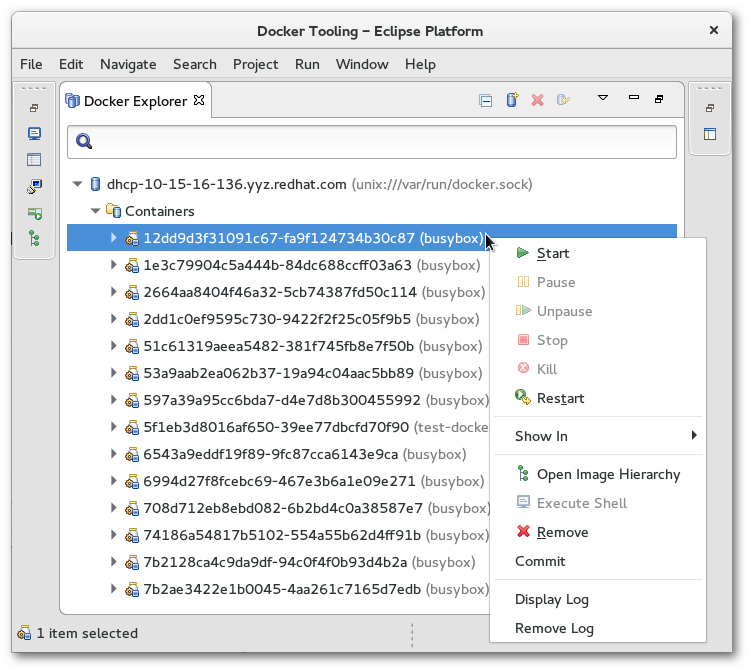
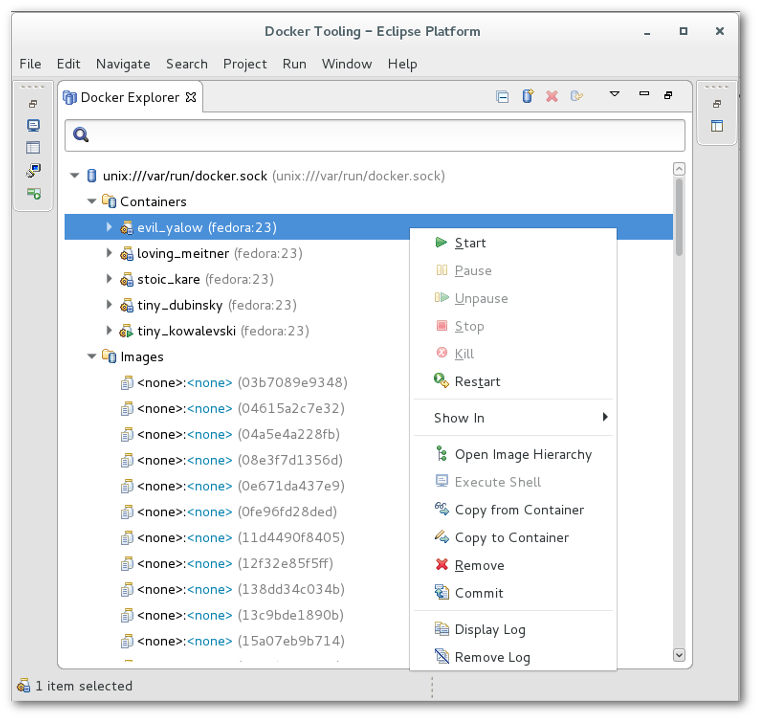
Bug 508552 - Update Docker documentation for Neon.2

Changed region(s): [[0.0, 0.0312, 0.98, 1.0], [0.8881, 0.0312, 0.9188, 0.0625]]

diff --git a/containers/org.eclipse.linuxtools.docker.docs/Linux_Tools_Project/Docker_Tooling/User_Guide/Docker-Tooling-Perspective.html b/containers/org.eclipse.linuxtools.docker.docs/Linux_Tools_Project/Docker_Tooling/User_Guide/Docker-Tooling-Perspective.html
@@ -28,7 +28,7 @@
 				<td style="width: 60%" align="center"></td>
 				<td style="width: 20%" align="right" valign="top">Updating This Document</td>
 			</tr>
-		</table><hr/>
+		</table><hr class="navigation-separator"/>
 		<h1 id="Docker_Tooling_Perspective">Docker Tooling Perspective</h1>
 		<p>A new perspective known as the Docker Tooling Perspective is added.</p>
 		<p>
@@ -37,17 +37,17 @@
 		<p>This perspective brings up three new views added:</p>
 		<ul>
 			<li>
-				<a href="Docker-Tooling-Perspective.html#Docker_Explorer_View">Docker Explorer View</a> - view for creating/managing connections to Docker daemons
+				<a href="#Docker_Explorer_View">Docker Explorer View</a> - view for creating/managing connections to Docker daemons
 			</li>
 			<li>
-				<a href="Docker-Tooling-Perspective.html#Docker_Images_View">Docker Images View</a> - view for managing Docker Images
+				<a href="#Docker_Images_View">Docker Images View</a> - view for managing Docker Images
 			</li>
 			<li>
-				<a href="Docker-Tooling-Perspective.html#Docker_Containers_View">Docker Containers View</a> - view for managing Docker Containers
+				<a href="#Docker_Containers_View">Docker Containers View</a> - view for managing Docker Containers
 			</li>
 		</ul>
 		<p>In addition, the Docker Tooling Perspective adds the 
-			<a href="Docker-Tooling-Perspective.html#Docker_Image_Hierarchy_View">Docker Image Hierarchy View</a>, Console View, the Terminal View, and the Properties View.
+			<a href="#Docker_Image_Hierarchy_View">Docker Image Hierarchy View</a>, Console View, the Terminal View, and the Properties View.
 		</p>
 		<p>The Console View is used to display logs of stdout/stderr output from Containers and in some instances, allow input to stdin.
 			The Properties View allows clicking on various elements such as Connections, Images, and Containers and getting detailed
@@ -143,15 +143,21 @@
 			<li>Restart - restart Container</li>
 			<li>Show in - show in Properties View</li>
 			<li>
-				<a href="Docker-Tooling-Perspective.html#Docker_Image_Hierarchy_View">Open Image Hierarchy</a> - show parent Image plus its parents in Image Hierarchy View
+				<a href="#Docker_Image_Hierarchy_View">Open Image Hierarchy</a> - show parent Image plus its parents in Image Hierarchy View
 			</li>
 			<li>Execute Shell - run a shell in the Terminal View (running Container only)</li>
-			<li>Remove - delete stopped Containers</li>
 			<li>
-				<a href="Docker-Tooling-Perspective.html#Commit_Container">Commit</a> - commit the Container to an Image
+				<a href="#Copy_from_Container">Copy from Container</a> - copy files from Container to Host
 			</li>
 			<li>
-				<a href="Docker-Tooling-Perspective.html#Display_Log">Display Log</a> - display the log for the Container
+				<a href="#Copy_to_Container">Copy to Container</a> - copy files from Host to Container
+			</li>
+			<li>Remove - delete stopped Containers</li>
+			<li>
+				<a href="#Commit_Container">Commit</a> - commit the Container to an Image
+			</li>
+			<li>
+				<a href="#Display_Log">Display Log</a> - display the log for the Container
 			</li>
 			<li>Remove Log - removes the log for the Container from Eclipse Console View or Terminal View (tty flag on)</li>
 		</ul>
@@ -161,21 +167,21 @@
 		<p>For Images, one can:</p>
 		<ul>
 			<li>
-				<a href="Docker-Tooling-Perspective.html#Run_Image">Run</a> - build a Container and run it
+				<a href="#Run_Image">Run</a> - build a Container and run it
 			</li>
 			<li>Show in Properties View</li>
 			<li>
-				<a href="Docker-Tooling-Perspective.html#Docker_Image_Hierarchy_View">Open Image Hierarchy</a> - show parent Image plus its parents in Image Hierarchy View
+				<a href="#Docker_Image_Hierarchy_View">Open Image Hierarchy</a> - show parent Image plus its parents in Image Hierarchy View
 			</li>
 			<li>Remove - delete selected Images</li>
 			<li>
-				<a href="Docker-Tooling-Perspective.html#Push_Image">Push</a> - push an Image to a registry
+				<a href="#Push_Image">Push</a> - push an Image to a registry
 			</li>
 			<li>
-				<a href="Docker-Tooling-Perspective.html#Add_Tag">Add Tag</a> - add a tag to an Image
+				<a href="#Add_Tag">Add Tag</a> - add a tag to an Image
 			</li>
 			<li>
-				<a href="Docker-Tooling-Perspective.html#Remove_Tag">Remove Tag</a> - remove a tag from an Image with multiple tags
+				<a href="#Remove_Tag">Remove Tag</a> - remove a tag from an Image with multiple tags
 			</li>
 		</ul>
 		<h2 id="Docker_Images_View">Docker Images View</h2>
@@ -192,23 +198,23 @@
 		<ul>
 			<li>
 				<img border="0" src="images/LinuxToolsDockerImageViewPull.png"/> - 
-				<a href="Docker-Tooling-Perspective.html#Pull_Image">pull an Image from the Repository</a>
+				<a href="#Pull_Image">pull an Image from the Repository</a>
 			</li>
 			<li>
 				<img border="0" src="images/LinuxToolsDockerImageViewPush.png"/> - 
-				<a href="Docker-Tooling-Perspective.html#Push_Image">push an Image to the Repository</a>
+				<a href="#Push_Image">push an Image to the Repository</a>
 			</li>
 			<li>
 				<img border="0" src="images/LinuxToolsDockerContainerCreate.png"/> - 
-				<a href="Docker-Tooling-Perspective.html#Run_Image">create a Container from an Image</a>
+				<a href="#Run_Image">create a Container from an Image</a>
 			</li>
 			<li>
 				<img border="0" src="images/LinuxToolsDockerImageBuild.png"/> - 
-				<a href="Docker-Tooling-Perspective.html#Build_Image">build an Image from a Dockerfile</a>
+				<a href="#Build_Image">build an Image from a Dockerfile</a>
 			</li>
 			<li>
 				<img border="0" src="images/LinuxToolsDockerTagImage.png"/> - 
-				<a href="Docker-Tooling-Perspective.html#Add_Tag">tag an Image</a>
+				<a href="#Add_Tag">tag an Image</a>
 			</li>
 			<li>
 				<img border="0" src="images/LinuxToolsDockerDeleteImage.png"/> - delete one or more Images (requires confirmation)
@@ -221,17 +227,19 @@
 		<ul>
 			<li>
 				<img border="0" src="images/LinuxToolsDockerContainerCreate.png"/> - 
-				<a href="Docker-Tooling-Perspective.html#Run_Image">Run an Image and create a Container</a>
+				<a href="#Run_Image">Run an Image and create a Container</a>
 			</li>
 			<li>
-				<a href="Docker-Tooling-Perspective.html#Add_Tag">Add Tag</a> - same as the toolbar tag image action
+				<img border="0" src="images/LinuxToolsDockerTagImage.png"/> - 
+				<a href="#Add_Tag">tag an Image</a> (same as the toolbar tag image action)
 			</li>
 			<li>
-				<a href="Docker-Tooling-Perspective.html#Remove_Tag">Remove Tag</a> - remove a tag from an Image with multiple repo tags
+				<img border="0" src="images/LinuxToolsDockerRemoveTagIcon.png"/> - 
+				<a href="#Remove_Tag">remove a tag from an Image with multiple repo tags</a>
 			</li>
 			<li>
 				<img border="0" src="images/LinuxToolsDockerOpenImageHierarchy.png"/> - 
-				<a href="Docker-Tooling-Perspective.html#Docker_Image_Hierarchy_View">Open Image Hierarchy</a>
+				<a href="#Docker_Image_Hierarchy_View">Open Image Hierarchy</a>
 			</li>
 		</ul>
 		<p>The text entry below the Connection name is used to search/filter the contents of the list.
@@ -252,7 +260,7 @@
 				<i>Add a registry account...</i>
 			</b> or going to
 
-			<a href="Docker-Tooling-Perspective.html#Docker_Registry_Accounts_Preference_Page">Windows -&gt; Preferences -&gt; Docker -&gt; Registry Accounts</a>.
+			<a href="#Docker_Registry_Accounts_Preference_Page">Windows -&gt; Preferences -&gt; Docker -&gt; Registry Accounts</a>.
 		</p>
 		<p>The user can either fill in the complete name of the image to download or a search can be performed
 			using the Search button.  This brings up the Search Image Wizard.</p>
@@ -281,7 +289,7 @@
 			then push that tag.</p>
 		<p>The latest version of the Push Image Wizard allows one to specify a registry/account that has been added
 			via 
-			<a href="Docker-Tooling-Perspective.html#Docker_Registry_Accounts_Preference_Page">Window -&gt; Preferences -&gt; Docker -&gt; Registry Accounts</a>.  This is needed when authorization is required
+			<a href="#Docker_Registry_Accounts_Preference_Page">Window -&gt; Preferences -&gt; Docker -&gt; Registry Accounts</a>.  This is needed when authorization is required
 			by the registry for the specified repo.  Using the aforementioned tag method assumes no authorization
 			required.
 		</p>
@@ -377,7 +385,7 @@
 		<p>The directory can be specified using the "Browse" button.  Once a valid existing directory
 			is specified, the "Edit" button will be enabled, allowing creation and modification of the
 			Dockerfile using a 
-			<a href="Docker-Tooling-Perspective.html#Dockerfile_Editor">basic editor dialog</a>.
+			<a href="#Dockerfile_Editor">basic editor dialog</a>.
 		</p>
 		<p>When the Dockerfile is considered complete, hitting the "Finish" button will start the
 			Image build action.  When the build is complete, the Docker Images View will be refreshed
@@ -538,6 +546,9 @@
 				<img border="0" src="images/LinuxToolsDockerContainerKillIcon.png"/> - kill a running Container
 			</li>
 			<li>
+				<img border="0" src="images/LinuxToolsDockerContainerRestartIcon.png"/> - restart a Container
+			</li>
+			<li>
 				<img border="0" src="images/LinuxToolsDockerContainerDeleteIcon.png"/> - delete a stopped Container
 			</li>
 			<li>
@@ -553,17 +564,35 @@
 		</ul>
 		<p>The following context menu actions are supported:</p>
 		<ul>
-			<li>Commit Container - 
-				<a href="Docker-Tooling-Perspective.html#Commit_Container">commit all changes of a selected Container into a new Image</a>
-			</li>
-			<li>Restart - restart a Container (will wait to stop a running Container, then will kill it before starting again)</li>
-			<li>Display Log - 
-				<a href="Docker-Tooling-Perspective.html#Display_Log">display the stdout/stderr logs of a selected Container in the Console View</a>
-			</li>
-			<li>Remove Log - remove the stdout/stderr logs of a selected Container from the Console View</li>
 			<li>
-				<img border="0" src="images/LinuxToolsDockerOpenImageHierarchy.png"/> - 
-				<a href="Docker-Tooling-Perspective.html#Docker_Image_Hierarchy_View">Open Image Hierarchy for Container</a>
+				<img border="0" src="images/LinuxToolsDockerContainerCommitIcon.png"/> Commit Container - 
+				<a href="#Commit_Container">commit all changes of a selected Container into a new Image</a>
+			</li>
+			<li>
+				<img border="0" src="images/LinuxToolsDockerContainerRestartIcon.png"/> Restart - restart a Container (will wait to stop a running Container, then will kill it before starting again)
+			</li>
+			<li>
+				<img border="0" src="images/LinuxToolsDockerContainerDisplayLogIcon.png"/> Display Log - 
+				<a href="#Display_Log">display the stdout/stderr logs of a selected Container in the Console View</a>
+			</li>
+			<li>
+				<img border="0" src="images/LinuxToolsDockerContainerRemoveLogIcon.png"/> Remove Log - remove the stdout/stderr logs of a selected Container from the Console View
+			</li>
+			<li>
+				<img border="0" src="images/LinuxToolsDockerOpenImageHierarchy.png"/> Open Image Hierarchy - 
+				<a href="#Docker_Image_Hierarchy_View">Open Image Hierarchy for Container</a>
+			</li>
+			<li>
+				<img border="0" src="images/LinuxToolsDockerCopyFromContainer.png"/> Copy from Container - 
+				<a href="#Copy_from_Container">copy files from Container to Host</a>
+			</li>
+			<li>
+				<img border="0" src="images/LinuxToolsDockerCopyToContainer.png"/> Copy to Container - 
+				<a href="#Copy_to_Container">copy files from Host to Container</a>
+			</li>
+			<li>
+				<img border="0" src="images/LinuxToolsDockerExecuteShell.png"/> Execute Shell - 
+				<a href="#Execute_Shell">execute a shell in running Container</a>
 			</li>
 		</ul>
 		<h3 id="Filtering_Labels">Filtering Labels</h3>
@@ -632,6 +661,24 @@
 			</li>
 			<li>timestamps - by default they are added</li>
 		</ul>
+		<h2 id="Copy_from_Container">Copy from Container</h2>
+		<p>
+			<img border="0" src="images/LinuxToolsDockerCopyFromContainerDialog.png"/>
+		</p>
+		<p>The Copy from Container dialog allows you to specify files and folders from the Container's
+			file system and copy them to a selected directory on the Host.  If the Container is running,
+			a Container file browser will be available for file and folder selection and multiple files and
+			folders may be specified.  Specifying a folder will copy the folder and its contents.  </p>
+		<p>If the Container is
+			stopped, you must specify the file or folder manually in the given text entry widget.</p>
+		<h2 id="Copy_to_Container">Copy to Container</h2>
+		<p>
+			<img border="0" src="images/LinuxToolsDockerCopyToContainerDialog.png"/>
+		</p>
+		<p>The Copy to Container dialog allows you to specify files and folders from the Host file system to
+			a selected directory in the Container's file system.  If the Container is running, a Container directory
+			browser will be available for selecting the target folder.  Otherwise, a text entry will be made available
+			for specifying the directory manually.</p>
 		<h2 id="Docker_Image_Hierarchy_View">Docker Image Hierarchy View</h2>
 		<p>
 			<img border="0" src="images/LinuxToolsDockerImageHierarchyView.png"/>
@@ -643,14 +690,14 @@
 			selected Container is shown under the Image used to create it.</p>
 		<p>Context menu actions are available for the Docker Images and Docker Containers in the View.  These
 			match those found in the 
-			<a href="Docker-Tooling-Perspective.html#Docker_Explorer_Context_Menu">Docker Explorer View context menu</a>.
+			<a href="#Docker_Explorer_Context_Menu">Docker Explorer View context menu</a>.
 		</p>
 		<h2 id="Properties_View">Properties View</h2>
 		<p>The Properties View will respond to selections in the four Docker Tooling Views: 
-			<a href="Docker-Tooling-Perspective.html#Docker_Explorer_View">Docker Explorer View</a>, 
-			<a href="Docker-Tooling-Perspective.html#Docker_Images_View">Docker Images View</a>, 
-			<a href="Docker-Tooling-Perspective.html#Docker_Containers_View">Docker Containers View</a>, and the 
-			<a href="Docker-Tooling-Perspective.html#Docker_Image_Hierarchy_View">Docker Image Hierarchy View</a>.  The data shown will depend on what is being selected:
+			<a href="#Docker_Explorer_View">Docker Explorer View</a>, 
+			<a href="#Docker_Images_View">Docker Images View</a>, 
+			<a href="#Docker_Containers_View">Docker Containers View</a>, and the 
+			<a href="#Docker_Image_Hierarchy_View">Docker Image Hierarchy View</a>.  The data shown will depend on what is being selected:
 		</p>
 		<ul>
 			<li>Docker Connection</li>
@@ -673,7 +720,7 @@
 		<p>Users can select a docker-compose.yml file and start Docker Compose from the context menu, using the Run &gt; Docker Compose launcher shortcut.</p>
 		<p>The Docker Compose process displays it logs (with support for text coloring based on ANSI escape codes) and provides a stop button to stop the underlying process.
 			The location of the docker-compose command is specified using the 
-			<a href="Docker-Tooling-Perspective.html#Docker_Compose_Preference_Page">docker compose preferences page</a> location using
+			<a href="#Docker_Compose_Preference_Page">docker compose preferences page</a> location using
 			Window-&gt;Preferences-&gt;Docker-&gt;Docker Compose.
 		</p>
 		<p>
@@ -728,9 +775,9 @@
 		<p>The page supports adding, editing, and removing accounts.</p>
 		<p>Once a registry account entry is added, it may be used for pushing and pulling
 			images.  See the 
-			<a href="Docker-Tooling-Perspective.html#Push_Image">push image</a> and 
-			<a href="Docker-Tooling-Perspective.html#Pull_Image">pull image</a> sections for details.
-		</p><hr/>
+			<a href="#Push_Image">push image</a> and 
+			<a href="#Pull_Image">pull image</a> sections for details.
+		</p><hr class="navigation-separator"/>
 		<table class="navigation" style="width: 100%;" border="0" summary="navigation">
 			<tr>
 				<td style="width: 20%" align="left">

diff --git a/containers/org.eclipse.linuxtools.docker.docs/Linux_Tools_Project/Docker_Tooling/User_Guide/User-Guide.html b/containers/org.eclipse.linuxtools.docker.docs/Linux_Tools_Project/Docker_Tooling/User_Guide/User-Guide.html
@@ -24,14 +24,14 @@
 				<td style="width: 60%" align="center"></td>
 				<td style="width: 20%" align="right" valign="top">Docker Tooling Perspective</td>
 			</tr>
-		</table><hr/>
+		</table><hr class="navigation-separator"/>
 		<h1 id="Introduction">Introduction</h1>
 		<p>The Linux Tools Docker Tooling plug-ins allow a user to manage Docker Images and Containers with similar functionality found in
 			the command-line docker command.</p>
 		<p>For details on Docker and the docker command, see the Docker web-site at 
 			<a href="http://www.docker.com">http://www.docker.com</a>
 		</p>
-		<p>This document discusses functionality found in the Docker Tooling 2.1.0 feature.</p><hr/>
+		<p>This document discusses functionality found in the Docker Tooling 2.1.0 feature.</p><hr class="navigation-separator"/>
 		<table class="navigation" style="width: 100%;" border="0" summary="navigation">
 			<tr>
 				<td style="width: 20%" align="left"></td>

diff --git a/containers/org.eclipse.linuxtools.docker.docs/Linux_Tools_Project/Docker_Tooling/User_Guide/Updating-This-Document.html b/containers/org.eclipse.linuxtools.docker.docs/Linux_Tools_Project/Docker_Tooling/User_Guide/Updating-This-Document.html
@@ -24,11 +24,11 @@
 				<td style="width: 60%" align="center"></td>
 				<td style="width: 20%" align="right" valign="top"></td>
 			</tr>
-		</table><hr/>
+		</table><hr class="navigation-separator"/>
 		<h1 id="Updating_This_Document">Updating This Document</h1>
 		<pre>   This document is maintained in a collaborative wiki.  If you wish to update or modify this document please visit
-   http://wiki.eclipse.org/Linux_Tools_Project/Docker_Tooling/User_Guide .
-</pre><hr/>
+   <a href="http://wiki.eclipse.org/Linux_Tools_Project/Docker_Tooling/User_Guide">http://wiki.eclipse.org/Linux_Tools_Project/Docker_Tooling/User_Guide</a> .
+</pre><hr class="navigation-separator"/>
 		<table class="navigation" style="width: 100%;" border="0" summary="navigation">
 			<tr>
 				<td style="width: 20%" align="left">
